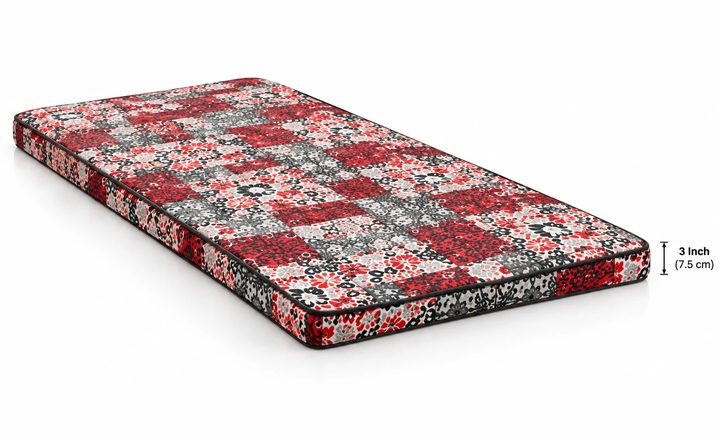
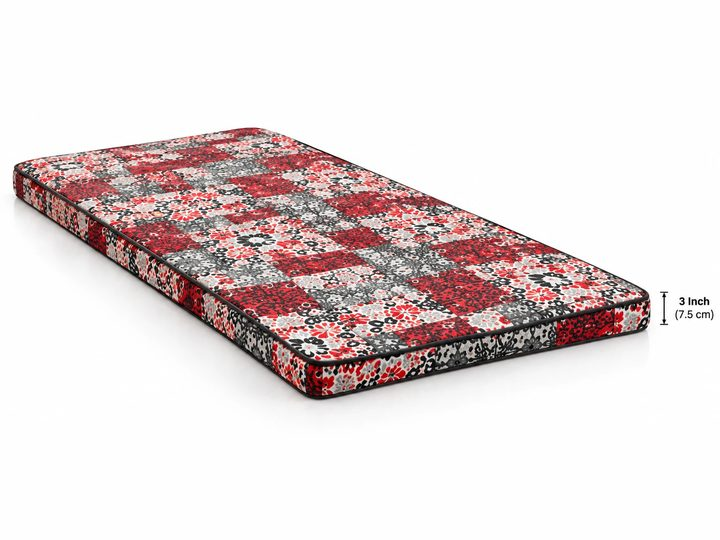
Export mattress image at 4:3 so the card does not crop the size label

Changed region(s): [[0.0, 0.1773, 1.0, 0.8273]]

diff --git a/deploy/index.html b/deploy/index.html
@@ -175,7 +175,7 @@
     <div class="card-body"><div><h3><a href="/bunker-cot-double-decker-bed/" style="text-decoration:none">Bunk Beds</a></h3><p>Bunker cots and double decker beds that double the sleepers per room in hostels, PGs and dormitories.</p><span class="card-price"><span data-after="₹6,499">₹5,999 <small class="price-regular">regular ₹6,499 from 16 Oct</small></span></span></div><a class="circle-link" href="/bunker-cot-double-decker-bed/" aria-label="Steel bunk bed details and price"><svg viewBox="0 0 24 24" fill="none" stroke="currentColor" stroke-width="2.2" stroke-linecap="round" aria-hidden="true"><path d="M7 17 17 7M9 7h8v8"/></svg></a></div></article>
    <article class="card" id="single-beds"><div class="thumb"><picture><source type="image/webp" srcset="/images/single-cot-terracotta-dressed-bed-sm.webp 720w, /images/single-cot-terracotta-dressed-bed.webp 1500w" sizes="(min-width:980px) 33vw, (min-width:680px) 50vw, 100vw"><img src="/images/single-cot-terracotta-dressed-bed.jpg" srcset="/images/single-cot-terracotta-dressed-bed-sm.jpg 720w, /images/single-cot-terracotta-dressed-bed.jpg 1500w" sizes="(min-width:980px) 33vw, (min-width:680px) 50vw, 100vw" alt="Bunkworks steel single cot with mattress and bedding — grey galvanised steel hostel single bed with plywood base" width="1500" height="917" loading="lazy" decoding="async"></picture></div>
     <div class="card-body"><div><h3><a href="/steel-single-cot/" style="text-decoration:none">Single Cots</a></h3><p>Strong, practical single cots — 6 × 2.5 ft, 40 cm high, 12mm plywood base, up to 100 kg.</p><span class="card-price"><span data-after="₹3,499">₹3,299 <small class="price-regular">regular ₹3,499 from 16 Oct</small></span></span></div><a class="circle-link" href="/steel-single-cot/" aria-label="Steel single cot details and price"><svg viewBox="0 0 24 24" fill="none" stroke="currentColor" stroke-width="2.2" stroke-linecap="round" aria-hidden="true"><path d="M7 17 17 7M9 7h8v8"/></svg></a></div></article>
-   <article class="card" id="mattress"><div class="thumb"><picture><source type="image/webp" srcset="/images/foam-mattress-3-inch-sm.webp 720w, /images/foam-mattress-3-inch.webp 1500w" sizes="(min-width:980px) 33vw, (min-width:680px) 50vw, 100vw"><img src="/images/foam-mattress-3-inch.jpg" srcset="/images/foam-mattress-3-inch-sm.jpg 720w, /images/foam-mattress-3-inch.jpg 1500w" sizes="(min-width:980px) 33vw, (min-width:680px) 50vw, 100vw" alt="Bunkworks 3 inch high density foam mattress with red, grey and black printed cover and black piped edges" width="1500" height="917" loading="lazy" decoding="async"></picture></div>
+   <article class="card" id="mattress"><div class="thumb"><picture><source type="image/webp" srcset="/images/foam-mattress-3-inch-sm.webp 720w, /images/foam-mattress-3-inch.webp 1500w" sizes="(min-width:980px) 33vw, (min-width:680px) 50vw, 100vw"><img src="/images/foam-mattress-3-inch.jpg" srcset="/images/foam-mattress-3-inch-sm.jpg 720w, /images/foam-mattress-3-inch.jpg 1500w" sizes="(min-width:980px) 33vw, (min-width:680px) 50vw, 100vw" alt="Bunkworks 3 inch high density foam mattress with red, grey and black printed cover and black piped edges" width="1500" height="1125" loading="lazy" decoding="async"></picture></div>
     <div class="card-body"><div><h3>3-inch High Density Foam Mattress</h3><p>Supportive 3-inch (7.5 cm) high density foam mattress with a printed cover and piped edges.</p><span class="card-price">₹1,485</span></div><a class="circle-link" href="#enquire" aria-label="Enquire about the 3 inch high density foam mattress"><svg viewBox="0 0 24 24" fill="none" stroke="currentColor" stroke-width="2.2" stroke-linecap="round" aria-hidden="true"><path d="M7 17 17 7M9 7h8v8"/></svg></a></div></article>
   </div>
  </div>

diff --git a/source/build_site.py b/source/build_site.py
@@ -632,7 +632,7 @@ def home():
     <div class="card-body"><div><h3><a href="/bunker-cot-double-decker-bed/" style="text-decoration:none">Bunk Beds</a></h3><p>Bunker cots and double decker beds that double the sleepers per room in hostels, PGs and dormitories.</p><span class="card-price">{swap(f'₹{B} <small class="price-regular">regular ₹{PB} from 16 Oct</small>', f'₹{PB}')}</span></div><a class="circle-link" href="/bunker-cot-double-decker-bed/" aria-label="Steel bunk bed details and price">{DIAG}</a></div></article>
    <article class="card" id="single-beds"><div class="thumb">{img('single-cot-terracotta-dressed-bed', 'Bunkworks steel single cot with mattress and bedding — grey galvanised steel hostel single bed with plywood base', cards_sizes)}</div>
     <div class="card-body"><div><h3><a href="/steel-single-cot/" style="text-decoration:none">Single Cots</a></h3><p>Strong, practical single cots — 6 × 2.5 ft, 40 cm high, 12mm plywood base, up to 100 kg.</p><span class="card-price">{swap(f'₹{S} <small class="price-regular">regular ₹{PS} from 16 Oct</small>', f'₹{PS}')}</span></div><a class="circle-link" href="/steel-single-cot/" aria-label="Steel single cot details and price">{DIAG}</a></div></article>
-   <article class="card" id="mattress"><div class="thumb"><picture><source type="image/webp" srcset="/images/foam-mattress-3-inch-sm.webp 720w, /images/foam-mattress-3-inch.webp 1500w" sizes="(min-width:980px) 33vw, (min-width:680px) 50vw, 100vw"><img src="/images/foam-mattress-3-inch.jpg" srcset="/images/foam-mattress-3-inch-sm.jpg 720w, /images/foam-mattress-3-inch.jpg 1500w" sizes="(min-width:980px) 33vw, (min-width:680px) 50vw, 100vw" alt="Bunkworks 3 inch high density foam mattress with red, grey and black printed cover and black piped edges" width="1500" height="917" loading="lazy" decoding="async"></picture></div>
+   <article class="card" id="mattress"><div class="thumb"><picture><source type="image/webp" srcset="/images/foam-mattress-3-inch-sm.webp 720w, /images/foam-mattress-3-inch.webp 1500w" sizes="(min-width:980px) 33vw, (min-width:680px) 50vw, 100vw"><img src="/images/foam-mattress-3-inch.jpg" srcset="/images/foam-mattress-3-inch-sm.jpg 720w, /images/foam-mattress-3-inch.jpg 1500w" sizes="(min-width:980px) 33vw, (min-width:680px) 50vw, 100vw" alt="Bunkworks 3 inch high density foam mattress with red, grey and black printed cover and black piped edges" width="1500" height="1125" loading="lazy" decoding="async"></picture></div>
     <div class="card-body"><div><h3>3-inch High Density Foam Mattress</h3><p>Supportive 3-inch (7.5 cm) high density foam mattress with a printed cover and piped edges.</p><span class="card-price">₹1,485</span></div><a class="circle-link" href="#enquire" aria-label="Enquire about the 3 inch high density foam mattress"><svg viewBox="0 0 24 24" fill="none" stroke="currentColor" stroke-width="2.2" stroke-linecap="round" aria-hidden="true"><path d="M7 17 17 7M9 7h8v8"/></svg></a></div></article>
   </div>
  </div>
